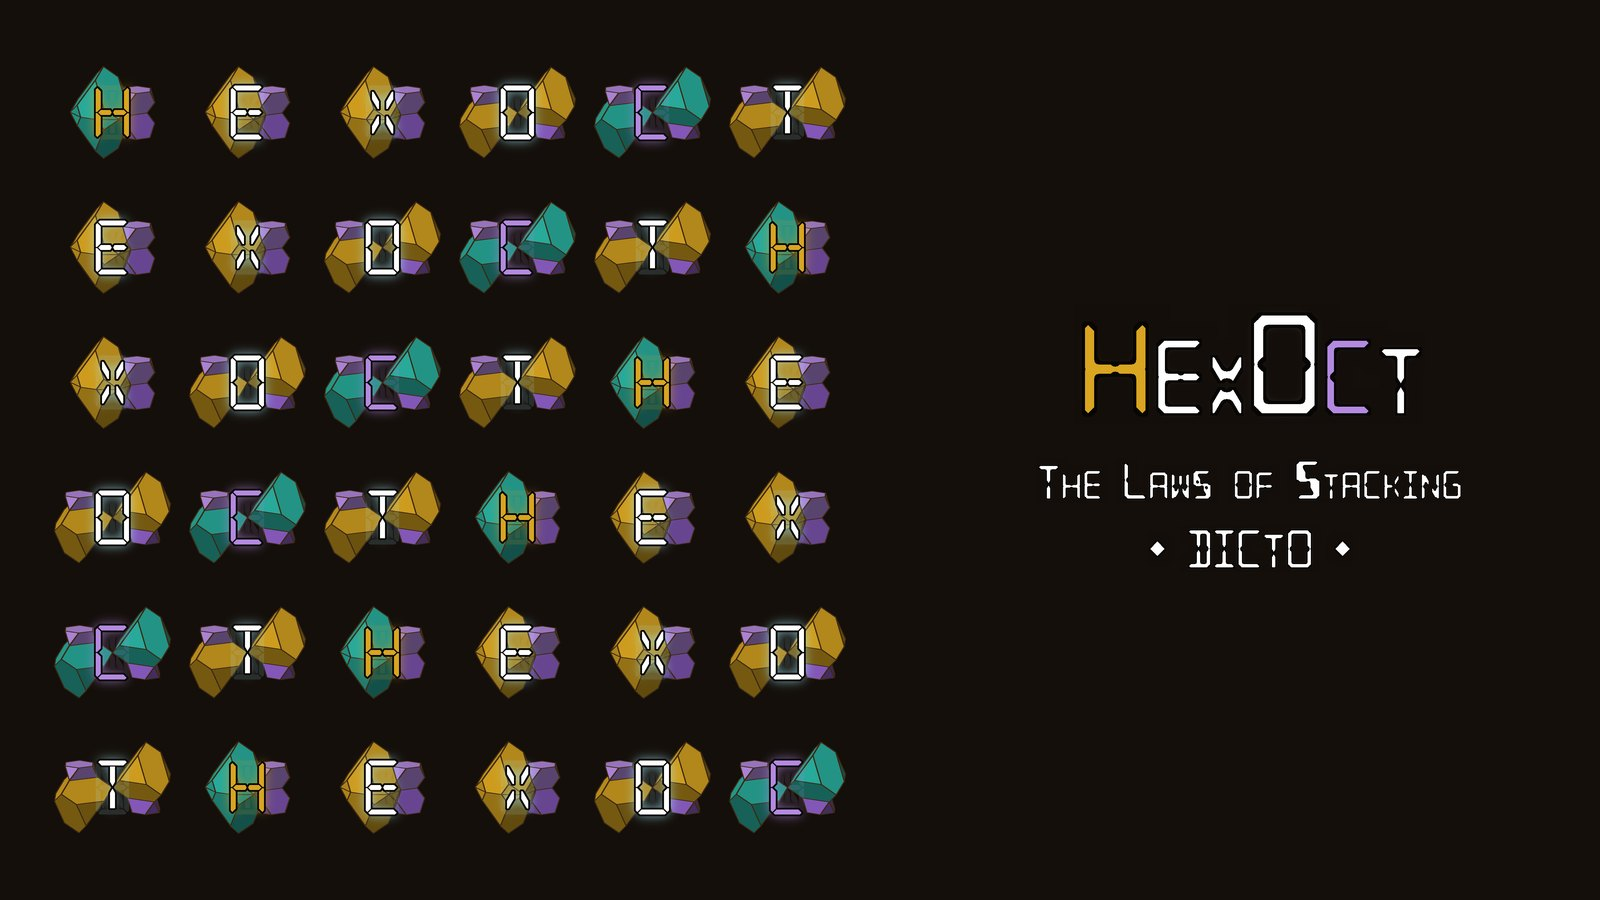
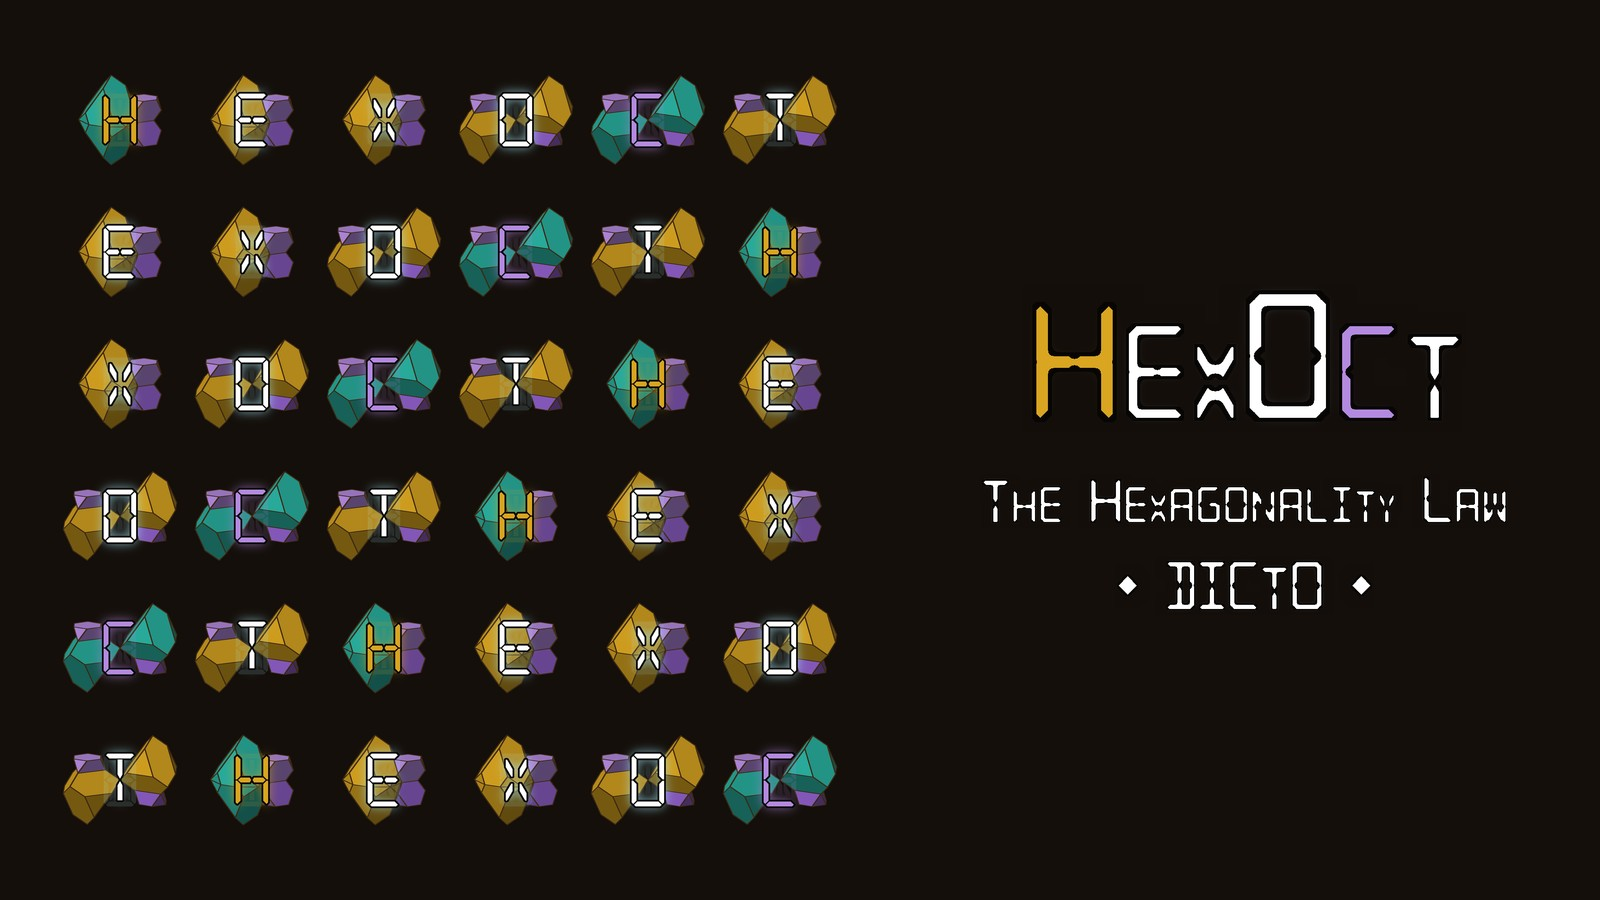
HexOct book card picture: new title panel (The Hexagonality Law)

diff --git a/index.html b/index.html
@@ -159,7 +159,7 @@
     <h2 id="papers">Papers</h2>
     <p class="disc-note">Short papers by DICTO, with the checks behind every claim.</p>
     <div class="papers">
-      <div class="paper feature"><img src="papers/hexoct-book.jpg?v=1" alt="The cover of HexOct: The Hexagonality Law: the letters H E X O C T in a six by six square, each on a gold and violet HexOct tile, with the title in LED-style letters" loading="eager" width="1600" height="900"><span class="t"><span class="num">Book</span> HexOct: The Hexagonality Law</span><span class="s">Fifteen papers in one book, from DICTO's PET-bottle-cap DICTOspheres to spin ice and the two HexOct tiles. However layers of equal balls are stacked, the space is shared out into finitely many kinds of piece, borrowed whole or in half from the cubic and the hexagonal stackings; pieces change only by swapping; every count is a straight line in the share of hexagonal layers. Then the law in real materials, from hydrogen in titanium to battery cathodes, ice, diamond, nanowires and magnets. Last, HexOct: every stacking is a string of just two tiles, and keyed tiles, HexOct-K, can compute. 80 pages, with an index and the HexOct square on the cover.</span><span class="pdoi"><a class="doi-badge" href="https://doi.org/10.5281/zenodo.23731359" title="DICTO DOI, always the newest version"><span>DICTO DOI</span><span>10.5281/zenodo.23731359</span></a></span><span class="btns"><a class="btn" href="https://doi.org/10.5281/zenodo.23731359">Read the book</a><a class="btn" href="https://kaleidohedra.dictospheres.com/?open=stackings:4H">View in app</a></span></div>
+      <div class="paper feature"><img src="papers/hexoct-book.jpg?v=2" alt="The cover of HexOct: The Hexagonality Law: the letters H E X O C T in a six by six square, each on a gold and violet HexOct tile, with the title in LED-style letters" loading="eager" width="1600" height="900"><span class="t"><span class="num">Book</span> HexOct: The Hexagonality Law</span><span class="s">Fifteen papers in one book, from DICTO's PET-bottle-cap DICTOspheres to spin ice and the two HexOct tiles. However layers of equal balls are stacked, the space is shared out into finitely many kinds of piece, borrowed whole or in half from the cubic and the hexagonal stackings; pieces change only by swapping; every count is a straight line in the share of hexagonal layers. Then the law in real materials, from hydrogen in titanium to battery cathodes, ice, diamond, nanowires and magnets. Last, HexOct: every stacking is a string of just two tiles, and keyed tiles, HexOct-K, can compute. 80 pages, with an index and the HexOct square on the cover.</span><span class="pdoi"><a class="doi-badge" href="https://doi.org/10.5281/zenodo.23731359" title="DICTO DOI, always the newest version"><span>DICTO DOI</span><span>10.5281/zenodo.23731359</span></a></span><span class="btns"><a class="btn" href="https://doi.org/10.5281/zenodo.23731359">Read the book</a><a class="btn" href="https://kaleidohedra.dictospheres.com/?open=stackings:4H">View in app</a></span></div>
       <div class="paper feature"><img src="papers/quanta-book.jpg?v=1" alt="The cover of Quanta of Space: the letters D I C T O in a five by five square, each on a different solid, with the title" loading="eager" width="1600" height="900"><span class="t"><span class="num">Book</span> Quanta of Space: A Manifesto</span><span class="s">DICTO's manifesto and the overview of the whole work: is space shared out into pieces, and which? Every paper as a short entry in six chapters, with the rule of halves at the centre, and the catalogue of all the atoms: every named shape with its D-number, each drawn alone. 153 pages.</span><span class="pdoi"><a class="doi-badge" href="https://doi.org/10.5281/zenodo.23754454" title="DICTO DOI, always the newest version"><span>DICTO DOI</span><span>10.5281/zenodo.23754454</span></a></span><span class="btns"><a class="btn" href="https://doi.org/10.5281/zenodo.23754454">Read the book</a></span></div>
       <div class="paper feature"><img src="papers/alicia-book.jpg?v=1" alt="The cover of Alicia in Wonderland: The Red and White Queens: the letters W O N D E R in a six by six square on spheres in red, white, gold, blue, teal and lilac, with the title" loading="eager" width="1600" height="900"><span class="t"><span class="num">Book</span> Alicia in Wonderland: The Red &amp; White Queens</span><span class="s">Two regular solids of four-dimensional space, seen by their shadows and slices: the 600-cell, the White Queen, and its polar partner the 120-cell, the Red Queen, with the work that led to them, from Alicia Boole Stott's slices of 1900 to DICTO's radial cell projection. Aristotle's five pyramids turn out to be the cores of the four-dimensional solids. 61 pages.</span><span class="pdoi"><a class="doi-badge" href="https://doi.org/10.5281/zenodo.23753305" title="DICTO DOI, always the newest version"><span>DICTO DOI</span><span>10.5281/zenodo.23753305</span></a></span><span class="btns"><a class="btn" href="https://doi.org/10.5281/zenodo.23753305">Read the book</a><a class="btn" href="https://kaleidohedra.dictospheres.com/?open=whitequeen:shells">View in app</a></span></div>
       <div class="paper feature"><img src="papers/golden-cycle-book.jpg?v=1" alt="The cover of The Golden Cycle: the letters G O L D E N in a six by six square on six solids of the golden cycle, with the title" loading="eager" width="1600" height="900"><span class="t"><span class="num">Book</span> The Golden Cycle: Icosahedral Shells</span><span class="s">Thirteen papers on icosahedral shells, from the Chain of Karma to the gnomon: the icosahedron and the dodecahedron each fill exactly as a shell round the other, the shells alternate without end and grow by φ³ each turn; six solids nest in a cycle, turned inside out it gives a second cycle, and the full turn of twelve stations is a gnomon. 116 pages, with a table of the cycles and an index.</span><span class="pdoi"><a class="doi-badge" href="https://doi.org/10.5281/zenodo.23752452" title="DICTO DOI, always the newest version"><span>DICTO DOI</span><span>10.5281/zenodo.23752452</span></a></span><span class="btns"><a class="btn" href="https://doi.org/10.5281/zenodo.23752452">Read the book</a></span></div>
